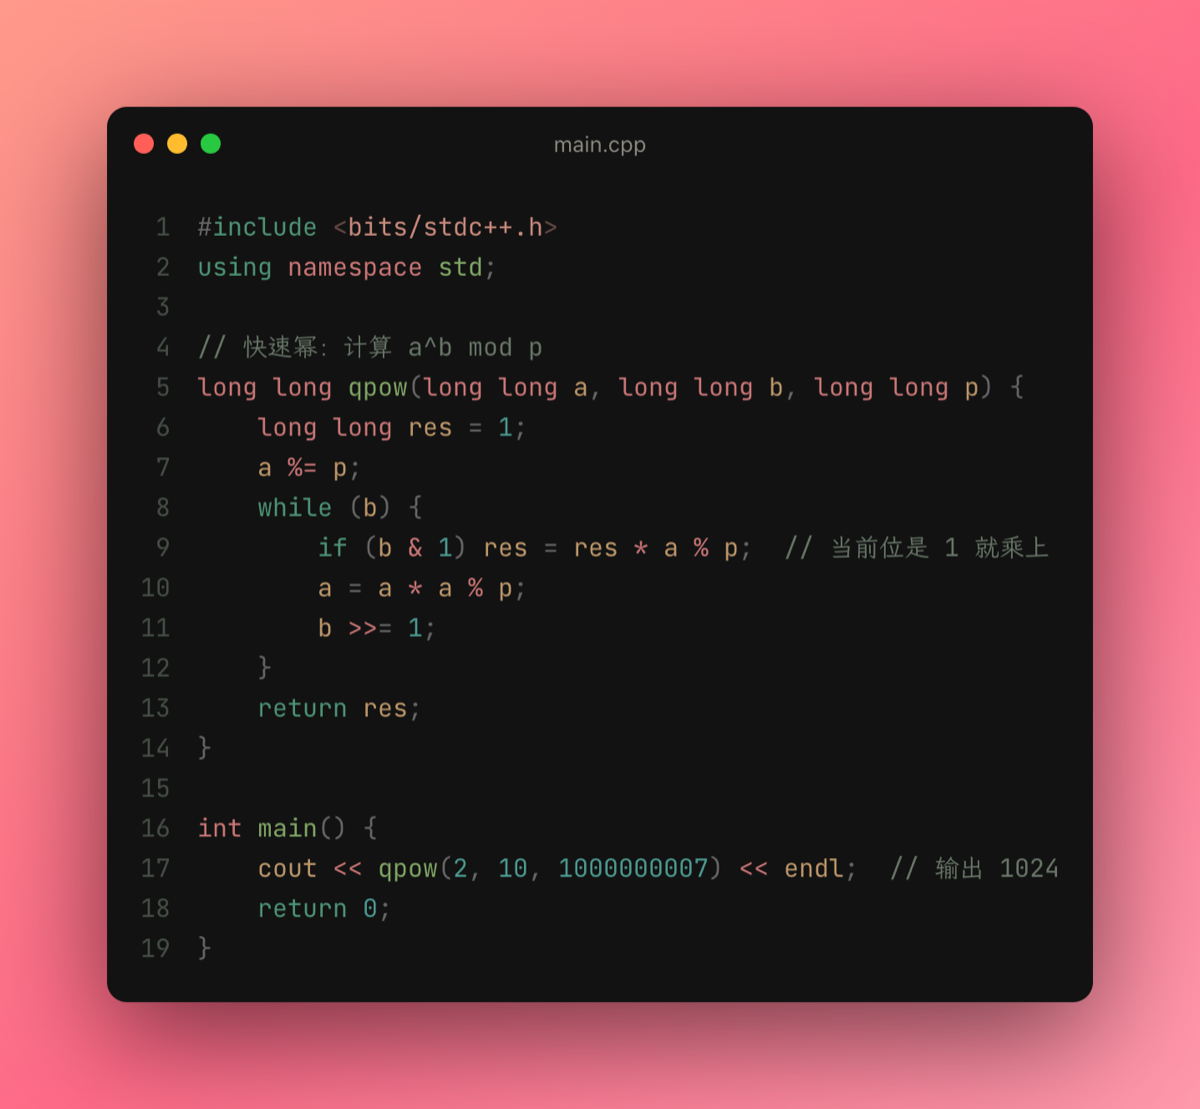
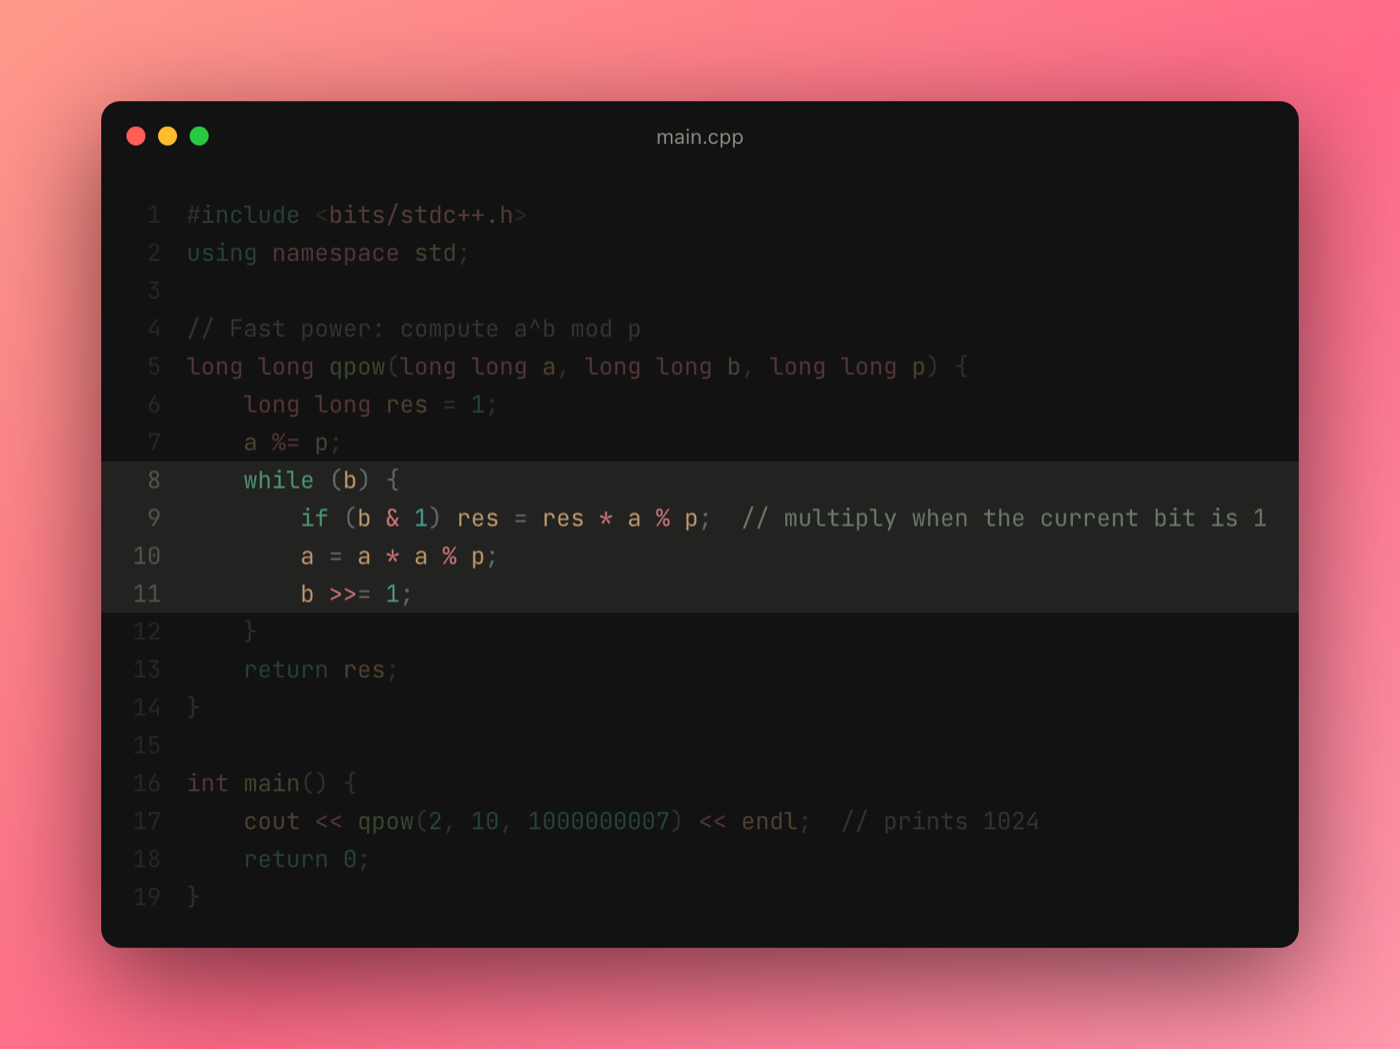
Update README with new features and screenshot

diff --git a/README.md b/README.md
@@ -11,11 +11,13 @@ Turn code into a beautiful image — copy it in one click and share it anywhere.
 ## Features
 
 - **Edit in place** — type or paste code right on the card; what you see is what you export
-- **Syntax highlighting** powered by [Shiki](https://shiki.style), the same engine as VS Code. C++ is supported today; more languages are coming
-- **4 code themes** (2 dark, 2 light) and **5 gradient backgrounds**, or no background at all
-- **3 padding sizes** and a line-number toggle
+- **Syntax highlighting** powered by [Shiki](https://shiki.style), the same engine as VS Code. Supports **C++, C, Python, Java and JavaScript**, with automatic language detection (or pick one manually)
+- **Line highlighting** — click a line number to spotlight it, Shift-click to select a range; every other line fades out. Perfect for pointing at the important part
+- **4 code themes** with live previews, **5 gradient backgrounds** or no background at all, **3 padding sizes**, **3 font sizes** and a line-number toggle
+- **Optional signature** — add your handle (for example `@yourname`) to the corner of the image
 - **Good CJK support** — JetBrains Mono for code, LXGW WenKai Mono for Chinese and Japanese comments and D2Coding for Korean, all self-hosted and aligned to the same character grid
 - **One-click copy** to the clipboard (2× resolution), or download as PNG
+- **Works great on iPhone** — a touch-friendly layout with a bottom toolbar, and a Share button that opens the system share sheet (save to Photos, send to a chat, AirDrop). If sharing isn't available, long-press the preview image to save it
 - **Multilingual interface** — English, 简体中文, 日本語 and 한국어 (picked from your browser language, switchable any time)
 - **Remembers your settings and code** in the browser's local storage
 - Runs entirely in the browser; nothing is uploaded
@@ -37,6 +39,8 @@ npm run dev      # then open http://localhost:5173/matu/
 npm run build    # production build in dist/
 npm run preview  # preview the production build
 ```
+
+To try it on a phone on the same Wi-Fi, run `npm run dev -- --host` and open the `Network` address it prints. (Sharing and copying images need HTTPS, so test those on the deployed site.)
 
 ## Tech stack
 

diff --git a/README.zh-CN.md b/README.zh-CN.md
@@ -11,11 +11,13 @@
 ## 功能
 
 - **直接在卡片里编辑**：打字或粘贴代码，所见即所得
-- **语法高亮**：使用 [Shiki](https://shiki.style)，与 VS Code 同一套高亮引擎。目前支持 C++，更多语言陆续加入
-- **4 个代码主题**（2 深 2 浅）和 **5 个渐变背景**，也可以选择无背景
-- **3 档边距**，可开关行号
-- **中文注释显示正常**：代码用 JetBrains Mono，中日文用霞鹜文楷等宽，韩文用 D2Coding，字体均为自托管，并与英文按同一字符网格对齐
+- **语法高亮**：使用 [Shiki](https://shiki.style)，与 VS Code 同一套高亮引擎。支持 **C++、C、Python、Java、JavaScript**，自动识别语言，也可以手动指定
+- **行高亮**：点行号高亮一行，Shift + 点击选中一段，其余行自动变暗，讲重点时很好用
+- **4 个代码主题**（带预览色块）、**5 个渐变背景**（也可以无背景）、**3 档边距**、**3 档字号**，可开关行号
+- **可选的署名水印**：在图片角落加上你的名字，比如 `@yourname`
+- **中日韩注释显示正常**：代码用 JetBrains Mono，中日文用霞鹜文楷等宽，韩文用 D2Coding，字体均为自托管，并与英文按同一字符网格对齐
 - **一键复制图片**到剪贴板（2 倍清晰度），或下载 PNG
+- **iPhone 上也好用**：触屏友好的布局和底部工具栏；「分享」按钮会调起系统分享面板（存到相册、发给好友、AirDrop）。如果系统分享不可用，长按预览图片即可保存
 - **界面支持英、中、日、韩四种语言**，首次打开按浏览器语言自动选择，也可随时切换
 - **自动记住设置和代码**，保存在浏览器本地
 - 完全在浏览器中运行，不会上传任何内容
@@ -37,6 +39,8 @@ npm run dev      # 然后打开 http://localhost:5173/matu/
 npm run build    # 打包到 dist 文件夹
 npm run preview  # 预览打包后的版本
 ```
+
+想在同一个 Wi-Fi 下的手机上试用，运行 `npm run dev -- --host`，用手机打开终端里显示的 `Network` 地址。（分享和复制图片需要 HTTPS，这两项请在线上版本测试。）
 
 ## 技术栈
 
